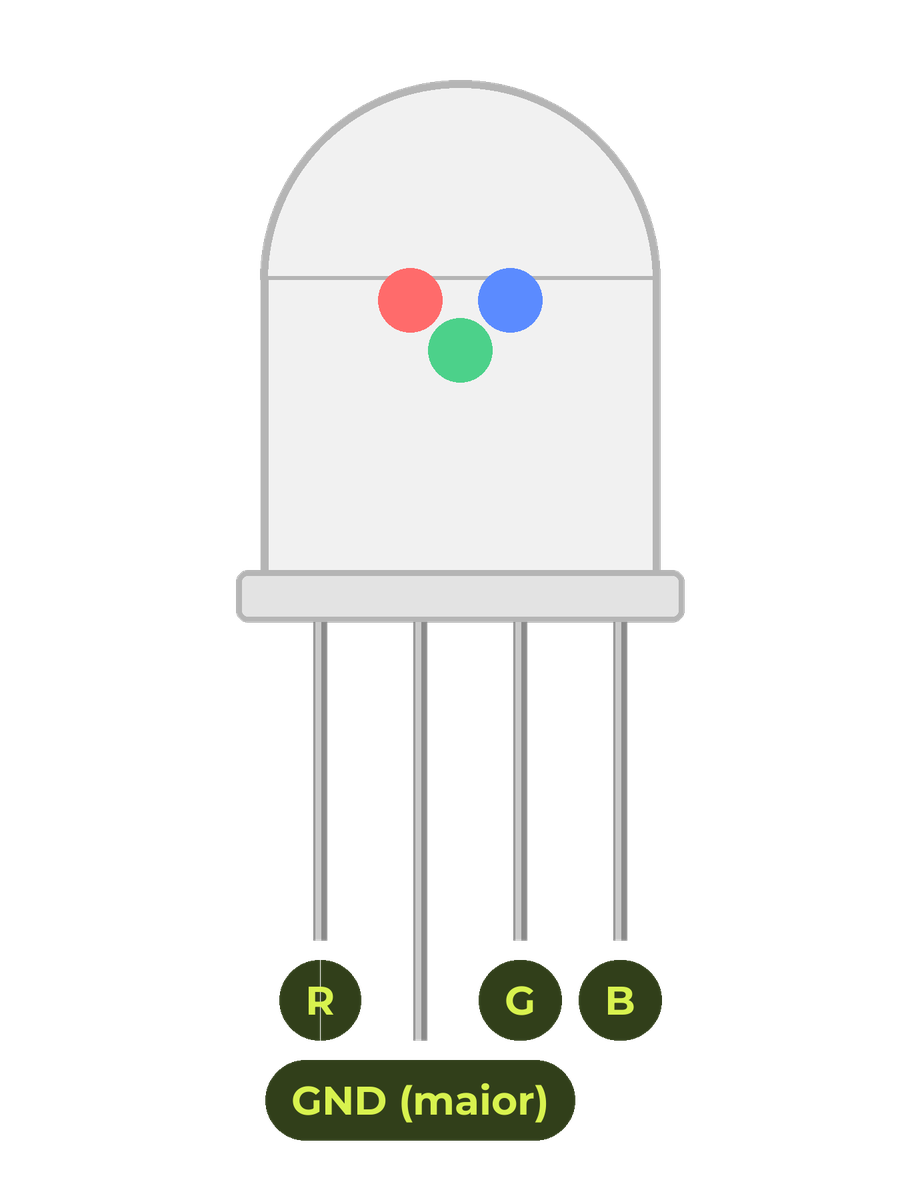
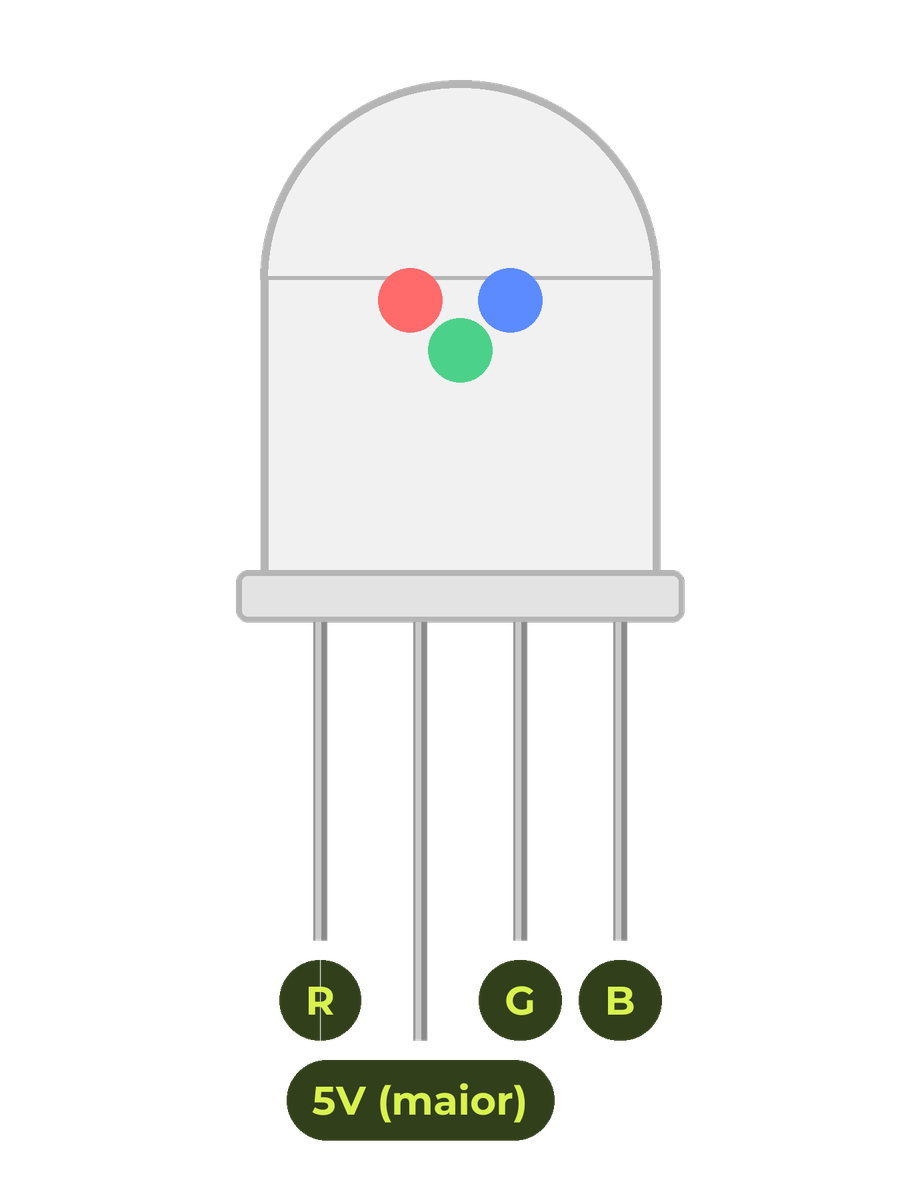
Atualiza os códigos do sensor de presença e do joystick e liga o LED RGB no 5V

Changed region(s): [[0.2739, 0.8633, 0.6391, 0.9558]]

diff --git a/componentes.html b/componentes.html
@@ -165,23 +165,26 @@ void loop() {
         </section>
         <section class="card" data-arquivo="ArduninaJoystick.ino">
           <p class="etiqueta-componente">Joystick</p>
-          <h2>Você controla o pescoço da Ardunina</h2>
+          <h2>Você controla a Ardunina</h2>
           <p class="pecas">Peças: joystick, servo (D11), LEDs (D4 e D7) e buzzer (D9)</p>
-          <p class="muted">Mexa o joystick para os lados e o pescoço vira junto. Nas pontas, o olho daquele lado acende e ela apita.</p>
+          <p class="muted">Para os lados, o pescoço vira. Para cima e para baixo, acende um olho de cada vez. Apertando o botão do joystick, ela canta.</p>
           <figure class="foto-componente">
             <img src="img/componentes/joystick.png" alt="Desenho do joystick com os pinos GND, +5V, VRx, VRy e SW" width="560" height="560" loading="lazy" />
             <figcaption>Confira o nome de cada pino antes de ligar os fios.</figcaption>
           </figure>
           <h3 class="ligacoes-titulo">Ligações</h3>
           <ul class="ligacoes">
-            <li><strong>GND</strong> → GND</li>
-            <li><strong>+5V</strong> → 5V</li>
             <li><strong>VRx</strong> → pino A1</li>
-            <li><strong>VRy e SW</strong> → ficam livres</li>
+            <li><strong>VRy</strong> → pino A0</li>
+            <li><strong>SW</strong> → pino 2</li>
+            <li><strong>+5V</strong> → 5V</li>
+            <li><strong>GND</strong> → GND</li>
           </ul>
-          <pre class="code" tabindex="0" aria-label="Código: Você controla o pescoço da Ardunina">#include &lt;Servo.h&gt;
+          <pre class="code" tabindex="0" aria-label="Código: Você controla a Ardunina">#include &lt;Servo.h&gt;
 
 const int eixoX = A1;
+const int eixoY = A0;
+const int botao = 2;
 const int olhoEsquerdo = 4;
 const int olhoDireito = 7;
 const int boca = 9;
@@ -193,25 +196,27 @@ void setup() {
   pinMode(olhoEsquerdo, OUTPUT);
   pinMode(olhoDireito, OUTPUT);
   pinMode(boca, OUTPUT);
+  pinMode(botao, INPUT_PULLUP);   // apertado = LOW
   pescoco.attach(pinoPescoco);
 }
 
 void loop() {
+  // Pescoço no eixo X
   int x = analogRead(eixoX);
-  int angulo = map(x, 0, 1023, 0, 180);
-  pescoco.write(angulo);
-  if (angulo &lt; 45) {
-    digitalWrite(olhoEsquerdo, HIGH);
-    tone(boca, 440, 50);
+  pescoco.write(map(x, 0, 1023, 0, 180));
+
+  // Olhos no eixo Y (centro fica perto de 512)
+  int y = analogRead(eixoY);
+  digitalWrite(olhoEsquerdo, y &lt; 300 ? HIGH : LOW);
+  digitalWrite(olhoDireito,  y &gt; 700 ? HIGH : LOW);
+
+  // Buzzer no botão do joystick
+  if (digitalRead(botao) == LOW) {
+    tone(boca, 660);
   } else {
-    digitalWrite(olhoEsquerdo, LOW);
+    noTone(boca);
   }
-  if (angulo &gt; 135) {
-    digitalWrite(olhoDireito, HIGH);
-    tone(boca, 880, 50);
-  } else {
-    digitalWrite(olhoDireito, LOW);
-  }
+
   delay(15);
 }</pre>
           <div class="actions">
@@ -221,22 +226,22 @@ void loop() {
           <p class="small" role="status"></p>
           <div class="side-callout">
             <strong>O que tem de novo?</strong>
-            <p><code>map()</code> converte a leitura do joystick (0 a 1023) em um ângulo do servo (0° a 180°). Os dois <code>if</code> conferem se o pescoço chegou perto de uma das pontas.</p>
+            <p><code>map()</code> converte o eixo X (0 a 1023) em um ângulo do servo (0° a 180°). <code>y &lt; 300 ? HIGH : LOW</code> é um <code>if</code> curtinho. Com <code>INPUT_PULLUP</code>, o botão fica <code>HIGH</code> solto e <code>LOW</code> apertado; <code>noTone()</code> faz o som parar.</p>
           </div>
-          <p class="small"><strong>Experimente:</strong> Troque <code>45</code> e <code>135</code> por outros números. Os olhos acendem mais cedo ou mais tarde?</p>
+          <p class="small"><strong>Experimente:</strong> Troque <code>660</code> por outro número. A voz fica mais grave ou mais aguda?</p>
         </section>
         <section class="card" data-arquivo="ArduninaLedRGB.ino">
           <p class="etiqueta-componente">LED RGB</p>
           <h2>Os olhos da Ardunina mudam de cor</h2>
-          <p class="pecas">Peças: LED RGB (cátodo comum), 3 resistores de 220 Ω, buzzer (D9) e servo (D11)</p>
+          <p class="pecas">Peças: LED RGB (ânodo comum), 3 resistores de 220 Ω, buzzer (D9) e servo (D11)</p>
           <p class="muted">O LED passa por vermelho, verde e azul. A cada cor, ela canta uma nota e vira o pescoço.</p>
           <figure class="foto-componente">
-            <img src="img/componentes/led-rgb.png" alt="Desenho do LED RGB com as pernas R, GND (a mais comprida), G e B" width="460" height="600" loading="lazy" />
+            <img src="img/componentes/led-rgb.png" alt="Desenho do LED RGB com as pernas R, 5V (a mais comprida), G e B" width="460" height="600" loading="lazy" />
             <figcaption>Confira o nome de cada pino antes de ligar os fios.</figcaption>
           </figure>
           <h3 class="ligacoes-titulo">Ligações</h3>
           <ul class="ligacoes">
-            <li><strong>Perna maior</strong> → GND</li>
+            <li><strong>Perna maior</strong> → 5V (não vai no GND!)</li>
             <li><strong>R</strong> → resistor → pino 5</li>
             <li><strong>G</strong> → resistor → pino 6</li>
             <li><strong>B</strong> → resistor → pino 3</li>
@@ -259,10 +264,12 @@ void setup() {
   pescoco.attach(pinoPescoco);
 }
 
+// LED de ânodo comum: a perna maior vai no 5V
+// e cada cor acende com LOW. O ! inverte: 1 vira LOW.
 void cor(int r, int g, int b) {
-  digitalWrite(vermelho, r);
-  digitalWrite(verde, g);
-  digitalWrite(azul, b);
+  digitalWrite(vermelho, !r);
+  digitalWrite(verde, !g);
+  digitalWrite(azul, !b);
 }
 
 void loop() {
@@ -286,7 +293,7 @@ void loop() {
           <p class="small" role="status"></p>
           <div class="side-callout">
             <strong>O que tem de novo?</strong>
-            <p>A função <code>cor(r, g, b)</code> mistura vermelho, verde e azul: <code>1</code> liga a cor e <code>0</code> desliga. Usamos liga e desliga porque o buzzer e o servo atrapalham o <code>analogWrite()</code> em alguns pinos.</p>
+            <p>A função <code>cor(r, g, b)</code> mistura vermelho, verde e azul: <code>1</code> liga a cor e <code>0</code> desliga. Como a perna maior vai no 5V, cada cor acende com <code>LOW</code>; o <code>!</code> inverte o número para você não precisar pensar nisso. Usamos liga e desliga porque o buzzer e o servo atrapalham o <code>analogWrite()</code> em alguns pinos.</p>
           </div>
           <p class="small"><strong>Experimente:</strong> Tente <code>cor(1, 1, 0)</code> e <code>cor(1, 0, 1)</code>. Que cores aparecem?</p>
         </section>
@@ -294,7 +301,7 @@ void loop() {
           <p class="etiqueta-componente">Sensor de presença (HC-SR501)</p>
           <h2>A Ardunina percebe quem passa</h2>
           <p class="pecas">Peças: sensor de presença HC-SR501, LEDs (D4 e D7), buzzer (D9) e servo (D11)</p>
-          <p class="muted">Quando alguém se mexe perto dela, os olhos acendem, ela apita e vira o pescoço.</p>
+          <p class="muted">Quando alguém chega perto, ela apita uma vez. Enquanto a pessoa estiver ali, os olhos ficam acesos e a cabeça balança.</p>
           <figure class="foto-componente">
             <img src="img/componentes/presenca.png" alt="Desenho do sensor de presença com os pinos VCC, OUT e GND" width="560" height="560" loading="lazy" />
             <figcaption>Confira o nome de cada pino antes de ligar os fios.</figcaption>
@@ -302,40 +309,72 @@ void loop() {
           <h3 class="ligacoes-titulo">Ligações</h3>
           <ul class="ligacoes">
             <li><strong>VCC</strong> → 5V</li>
-            <li><strong>OUT</strong> → pino 2</li>
+            <li><strong>OUT</strong> → pino 3</li>
             <li><strong>GND</strong> → GND</li>
           </ul>
           <pre class="code" tabindex="0" aria-label="Código: A Ardunina percebe quem passa">#include &lt;Servo.h&gt;
 
-const int sensorPresenca = 2;
+const int sensorPresenca = 3;
 const int olhoEsquerdo = 4;
 const int olhoDireito = 7;
 const int boca = 9;
 const int pinoPescoco = 11;
 
 Servo pescoco;
+bool tinhaAlguem = false;
+
+void olhos(int estado) {
+  digitalWrite(olhoEsquerdo, estado);
+  digitalWrite(olhoDireito, estado);
+}
+
+// Move o pescoço suavemente de um ângulo até outro
+void moverPescoco(int de, int ate) {
+  int passo = (ate &gt; de) ? 1 : -1;
+  for (int a = de; a != ate; a += passo) {
+    pescoco.write(a);
+    delay(8);            // menor = mais rápido
+  }
+  pescoco.write(ate);
+}
 
 void setup() {
+  Serial.begin(9600);
   pinMode(sensorPresenca, INPUT);
   pinMode(olhoEsquerdo, OUTPUT);
   pinMode(olhoDireito, OUTPUT);
   pinMode(boca, OUTPUT);
   pescoco.attach(pinoPescoco);
+  pescoco.write(90);
+
+  Serial.println("Calibrando o sensor... aguarde 30 segundos");
+  delay(30000);
+  Serial.println("Pronto!");
 }
 
 void loop() {
-  int presenca = digitalRead(sensorPresenca);
-  if (presenca == HIGH) {
-    digitalWrite(olhoEsquerdo, HIGH);
-    digitalWrite(olhoDireito, HIGH);
-    tone(boca, 1047, 150);
-    pescoco.write(120);
+  bool temAlguem = digitalRead(sensorPresenca) == HIGH;
+
+  if (temAlguem) {
+    Serial.println("Sensor: TEM GENTE");
+
+    if (!tinhaAlguem) {
+      tone(boca, 1047, 150);   // apita só quando a pessoa chega
+    }
+    olhos(HIGH);
+
+    // Balança a cabeça enquanto tiver alguém
+    moverPescoco(90, 130);
+    moverPescoco(130, 50);
+    moverPescoco(50, 90);
   } else {
-    digitalWrite(olhoEsquerdo, LOW);
-    digitalWrite(olhoDireito, LOW);
+    Serial.println("Sensor: ninguem");
+    olhos(LOW);
     pescoco.write(90);
+    delay(200);
   }
-  delay(300);
+
+  tinhaAlguem = temAlguem;
 }</pre>
           <div class="actions">
             <button type="button" class="btn primary copiar">Copiar código</button>
@@ -344,9 +383,9 @@ void loop() {
           <p class="small" role="status"></p>
           <div class="side-callout">
             <strong>O que tem de novo?</strong>
-            <p>O sensor só responde sim ou não: <code>digitalRead()</code> lê <code>HIGH</code> quando alguém se mexe e <code>LOW</code> quando não tem ninguém. Depois de ligar, espere 1 minuto para ele se ajustar.</p>
+            <p>Duas funções novas: <code>olhos()</code> acende ou apaga os dois olhos de uma vez, e <code>moverPescoco()</code> vira o pescoço grau por grau, para o movimento ficar suave. A variável <code>tinhaAlguem</code> faz ela apitar só quando a pessoa chega. No começo, o código espera 30 segundos para o sensor se ajustar: acompanhe em <strong>Ferramentas → Monitor Serial</strong>.</p>
           </div>
-          <p class="small"><strong>Experimente:</strong> Gire os dois botõezinhos laranja do sensor. Um muda a distância e o outro, quanto tempo ele fica em <code>HIGH</code>.</p>
+          <p class="small"><strong>Experimente:</strong> Mude o <code>delay(8)</code> dentro de <code>moverPescoco()</code>. Com um número menor, a cabeça balança mais rápido. Os dois botõezinhos laranja do sensor ajustam a distância e quanto tempo ele fica em <code>HIGH</code>.</p>
         </section>
       </div>
     </main>
